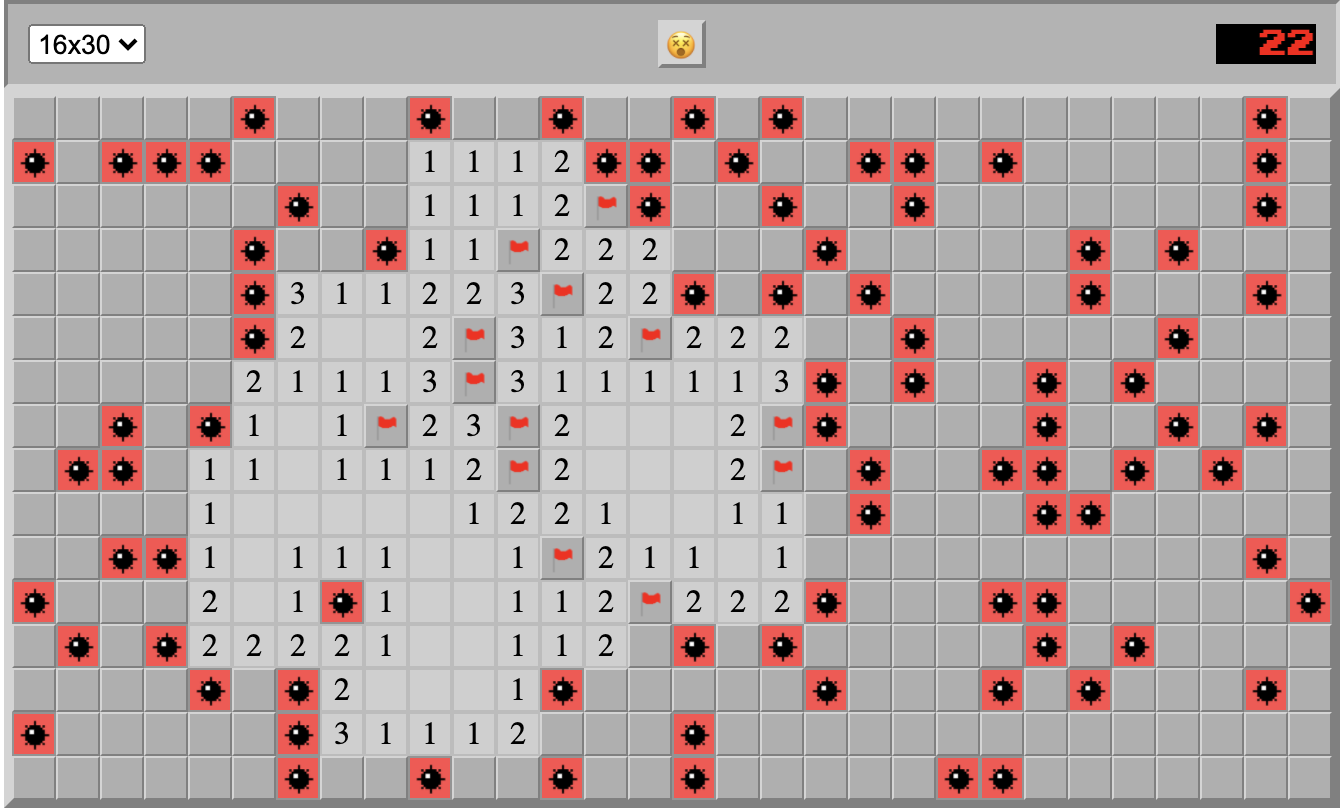
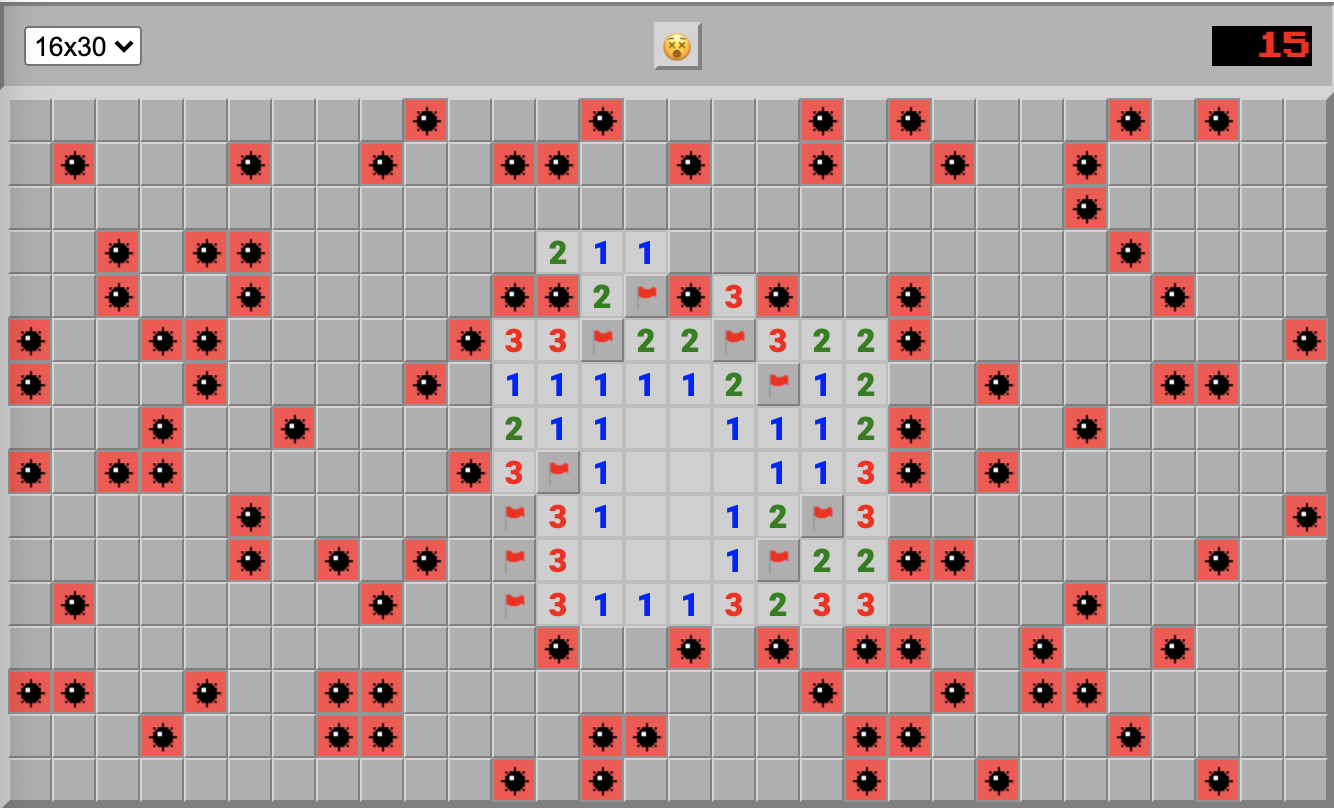
final commit

diff --git a/src/views/CellView.js b/src/views/CellView.js
@@ -4,6 +4,7 @@ import React from 'react';
 
 const CellView = ({props: {mine, setMine, flag, setFlag, visible, setVisible, adjacent, setAdjacent, MineField, selfIndex, recursivelyOpen, lost, visitedCells, winState, openAdjacentOnFlag, setStarted}}) => {
     const [hoverState, setHoverState] = React.useState(false)
+    const adjancencyClasses = ["c1" ,"c2", "c3", "c4", "c5", "c6", "c7"]
     return (
         <div className="cellContainer"
         onContextMenu={(!lost[0] && !winState[0]) ? (e) => {setFlag(!flag);e.preventDefault();return false;} : (e) => {e.preventDefault();return false;} }
@@ -19,7 +20,7 @@ const CellView = ({props: {mine, setMine, flag, setFlag, visible, setVisible, ad
             <div className={visible ? mine ? "mineCellSquare" : "visibleCellSquare" : flag ? "flaggedCellSquare" : "unTouchedCellSquare"}
             tabIndex="0" 
             >
-                {visible ? mine ? <img src={mineImg} alt="m"/> : adjacent === 0 ? " " : adjacent : flag ? <img src={flagImg} alt="f"/> : ""}
+                {visible ? mine ? <img src={mineImg} alt="m"/> : adjacent === 0 ? " " : <div className={`cCell ${adjancencyClasses[adjacent-1]}`}>{adjacent}</div> : flag ? <img src={flagImg} alt="f"/> : ""}
             </div>
         </div>
     )
@@ -78,7 +79,6 @@ function handleSpaceBar(flag, setFlag, visible, openAdjacentOnFlag, MineField, s
     const possible = (MineField.length * MineField[0].length) - mines
     !lost[0] ? visible ? openAdjacentOnFlag(MineField, selfIndex, visited, adjacent, lost, handleLoss, setStarted) : setFlag(!flag) : console.log("you lost");
     if (visited.flatMap(e=>e).filter(x=>x===1).length === possible) { 
-        console.log("won!")
         // if the number of visible cells are the same as 
         // the number of non-mine cells we have won.
         winState[1](true);

diff --git a/src/style.css b/src/style.css
@@ -1,5 +1,7 @@
 @import url('https://fonts.googleapis.com/css2?family=Press+Start+2P&display=swap');
 
+@import url('https://fonts.googleapis.com/css2?family=Roboto:wght@900&display=swap');
+
 .AppContainer {
     display:inline-block;
     background-color: rgb(212, 212, 212);
@@ -140,3 +142,36 @@ img {
     height: 15px;
 }
 
+
+.cCell {
+    font-family: 'Roboto', sans-serif;
+    cursor: default;
+}
+
+.c1 {
+    color: blue;
+}
+
+.c2 {
+    color: green;
+}
+
+.c3 {
+    color: red;
+}
+
+.c4 {
+    color: rgb(0, 0, 116);
+}
+
+.c5 {
+    color: brown;
+}
+
+.c6 {
+    color: turquoise;
+}
+
+.c7 {
+    color: #000;
+}

diff --git a/src/Cell.js b/src/Cell.js
@@ -104,7 +104,6 @@ function openAdjacentOnFlag(MineField, selfIndex, visitedFields, adjacent, lost,
         }
     }
     if (flags !== adjacent) {
-        console.log("not correct amount of flags placed!")
     } else {
         for (let h = -1; h < 2; h++) {
             for (let w = -1; w < 2; w++) {

diff --git a/src/MineField.js b/src/MineField.js
@@ -20,8 +20,6 @@ const MineField = ({height, width, mines, lost, setLost, winState, setStarted}) 
         }
     }
 
-    console.log(visitedCells);
-
     return <MineFieldView 
     MineField={cells} 
     lost={[lost, setLost]} 
